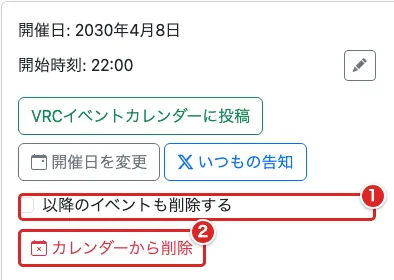
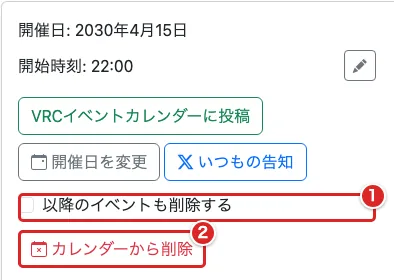
fix(guide): 撮影用データとモックの食い違いを直し、削除・承認の画像を撮り直す
- デモの生成待ちを固定状態にした後、生成スレッドが状態を書き戻さないようにトークンを差し替える
- 発表申請の通知モックの発表者名を審査画面と同じにする
- 削除の撮影で、子の開催回のカードを日付で選ぶ

Claude-Session: https://claude.ai/code/session_01XXsYAmkhJ6uEiZVgk4R8p6

diff --git a/scripts/guide_screenshots/mocks/lt-application-discord.html b/scripts/guide_screenshots/mocks/lt-application-discord.html
@@ -1,1 +1,1 @@
-<!doctype html><html lang="ja"><meta charset="utf-8"><meta name="viewport" content="width=device-width,initial-scale=1"><title>Discordの申請通知の例</title><style>body{margin:0;background:#202225;color:#f2f3f5;font:16px/1.7 sans-serif}main{max-width:580px;margin:32px auto;padding:24px;background:#313338;box-sizing:border-box}small{color:#c4c7cd}h1{font-size:20px}a{color:#70b7ff;overflow-wrap:anywhere}.embed{background:#2b2d31;border-left:4px solid #faa61a;border-radius:4px;padding:16px;margin-top:20px}.label{color:#c4c7cd;font-size:14px}@media(max-width:600px){main{margin:12px;padding:18px}}</style><main><small>Discord のイメージ図</small><p># 発表のお知らせ</p><p><strong>技術・学術系イベントHub</strong> <small>アプリ</small></p><p><strong>承認/却下をお願いします</strong><br><a id="review" href="https://example.com/event/application/2/review/">https://example.com/event/application/2/review/</a></p><div class="embed"><h1>新しい発表申請</h1><strong>身近な科学を楽しむ</strong><p><span class="label">発表者</span><br>ヒナ</p><p><span class="label">開催日</span><br>2030-04-08</p><p><span class="label">時間</span><br>30分</p><small>さくら技術交流会 | 申請者: ヒナ</small></div></main></html>
+<!doctype html><html lang="ja"><meta charset="utf-8"><meta name="viewport" content="width=device-width,initial-scale=1"><title>Discordの申請通知の例</title><style>body{margin:0;background:#202225;color:#f2f3f5;font:16px/1.7 sans-serif}main{max-width:580px;margin:32px auto;padding:24px;background:#313338;box-sizing:border-box}small{color:#c4c7cd}h1{font-size:20px}a{color:#70b7ff;overflow-wrap:anywhere}.embed{background:#2b2d31;border-left:4px solid #faa61a;border-radius:4px;padding:16px;margin-top:20px}.label{color:#c4c7cd;font-size:14px}@media(max-width:600px){main{margin:12px;padding:18px}}</style><main><small>Discord のイメージ図</small><p># 発表のお知らせ</p><p><strong>技術・学術系イベントHub</strong> <small>アプリ</small></p><p><strong>承認/却下をお願いします</strong><br><a id="review" href="https://example.com/event/application/2/review/">https://example.com/event/application/2/review/</a></p><div class="embed"><h1>新しい発表申請</h1><strong>身近な科学を楽しむ</strong><p><span class="label">発表者</span><br>アオイ</p><p><span class="label">開催日</span><br>2030-04-08</p><p><span class="label">時間</span><br>30分</p><small>さくら技術交流会 | 申請者: アオイ</small></div></main></html>

diff --git a/scripts/guide_screenshots/mocks/lt-application-email.html b/scripts/guide_screenshots/mocks/lt-application-email.html
@@ -1,1 +1,1 @@
-<!doctype html><html lang="ja"><meta charset="utf-8"><meta name="viewport" content="width=device-width,initial-scale=1"><title>発表申請メールの例</title><style>body{margin:0;background:#eef2f6;font:16px/1.7 sans-serif;color:#263244}main{max-width:560px;margin:32px auto;padding:24px;background:white;box-sizing:border-box}small{color:#64748b}h1{font-size:22px;border-bottom:2px solid #06c}a{display:inline-block;background:#06c;color:white;padding:12px 24px;border-radius:5px}dl{padding:16px;background:#f5f7fa}dd{margin:0 0 12px}@media(max-width:600px){main{margin:12px;padding:20px}}</style><main><small>メールのイメージ図</small><p>件名：[さくら技術交流会] 新しい発表申請があります</p><h1>新しい発表の申請</h1><p>さくら 様</p><p>さくら技術交流会に新しい発表の申請がありました。</p><dl><dt>開催日</dt><dd>2030年4月8日</dd><dt>テーマ</dt><dd>身近な科学を楽しむ</dd><dt>発表者</dt><dd>ヒナ</dd><dt>発表の持ち時間</dt><dd>30分</dd></dl><p><a id="review" href="https://example.com/event/application/2/review/">申請を確認する</a></p><small>このメールは集会の主催者に自動送信されています。</small></main></html>
+<!doctype html><html lang="ja"><meta charset="utf-8"><meta name="viewport" content="width=device-width,initial-scale=1"><title>発表申請メールの例</title><style>body{margin:0;background:#eef2f6;font:16px/1.7 sans-serif;color:#263244}main{max-width:560px;margin:32px auto;padding:24px;background:white;box-sizing:border-box}small{color:#64748b}h1{font-size:22px;border-bottom:2px solid #06c}a{display:inline-block;background:#06c;color:white;padding:12px 24px;border-radius:5px}dl{padding:16px;background:#f5f7fa}dd{margin:0 0 12px}@media(max-width:600px){main{margin:12px;padding:20px}}</style><main><small>メールのイメージ図</small><p>件名：[さくら技術交流会] 新しい発表申請があります</p><h1>新しい発表の申請</h1><p>さくら 様</p><p>さくら技術交流会に新しい発表の申請がありました。</p><dl><dt>開催日</dt><dd>2030年4月8日</dd><dt>テーマ</dt><dd>身近な科学を楽しむ</dd><dt>発表者</dt><dd>アオイ</dd><dt>発表の持ち時間</dt><dd>30分</dd></dl><p><a id="review" href="https://example.com/event/application/2/review/">申請を確認する</a></p><small>このメールは集会の主催者に自動送信されています。</small></main></html>

diff --git a/scripts/guide_screenshots/scenarios/event.py b/scripts/guide_screenshots/scenarios/event.py
@@ -144,7 +144,9 @@ def delete(capture):
     capture.login('owner')
     management(capture)
     # 親の削除による連鎖と区別できるよう、子開催回のカードを使う。
-    capture.page.locator('.card.shadow-sm').nth(1).evaluate(
+    # 先頭の .card.shadow-sm は Vket の案内や親（4月8日）なので、開催日で子開催回のカードに絞る。
+    capture.page.locator('.card.shadow-sm:has(form[action^="/event/delete/"])',
+                         has_text='2030年4月15日').first.evaluate(
         "e => e.dataset.guideDeleteCard = 'selected'")
     card = '[data-guide-delete-card=selected]'
     capture.annotate(f'{card} .card-text >> nth=0', 1)

diff --git a/app/guide/demo_seeds/event.py b/app/guide/demo_seeds/event.py
@@ -39,5 +39,7 @@ def finalize(context):
     existing = TweetQueue.objects.filter(event=parent, tweet_type='daily_reminder')
     if not existing.exists():
         TweetQueue.objects.bulk_create([queue])
+    # トークンを差し替え、起動済みの生成スレッドが固定した状態を書き戻せないようにする。
     existing.update(status='ready', generated_text=queue.generated_text,
-                    scheduled_at=queue.scheduled_at, created_at=stamp, error_message='')
+                    scheduled_at=queue.scheduled_at, created_at=stamp, error_message='',
+                    generation_token='guide-demo-fixed')
